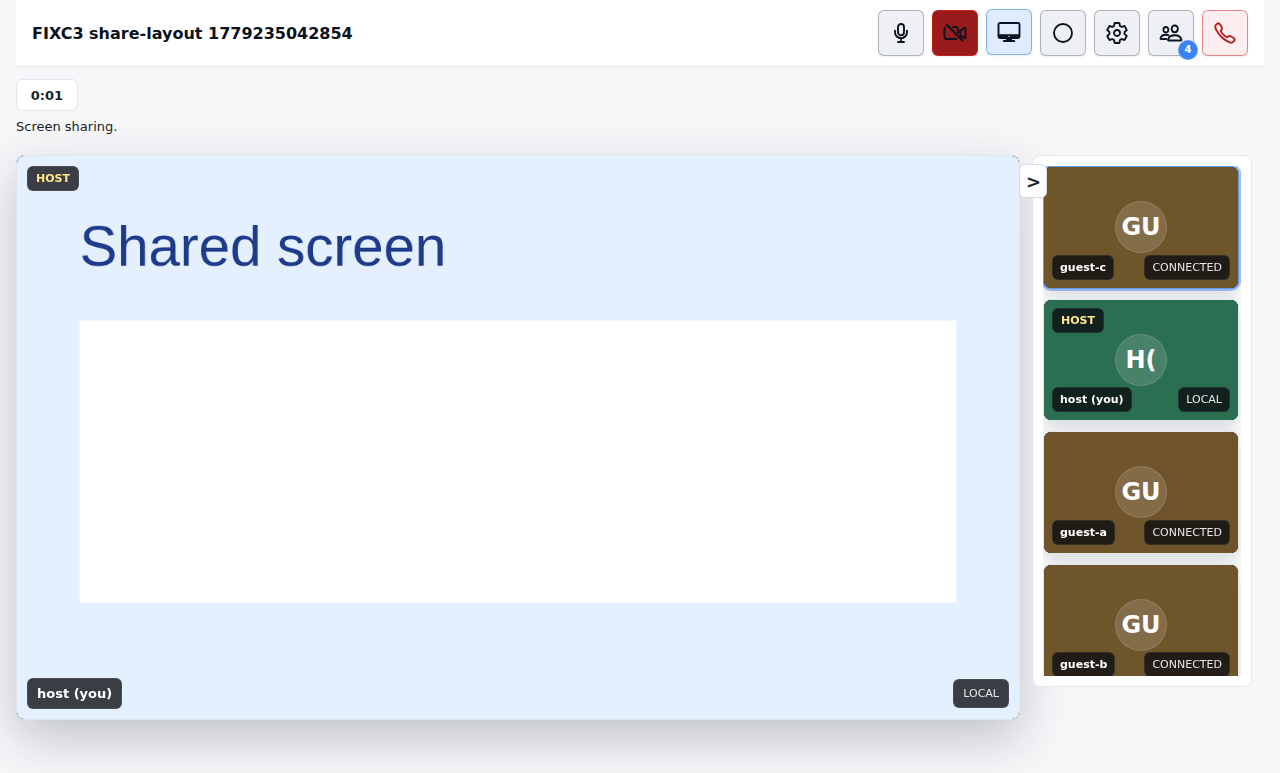
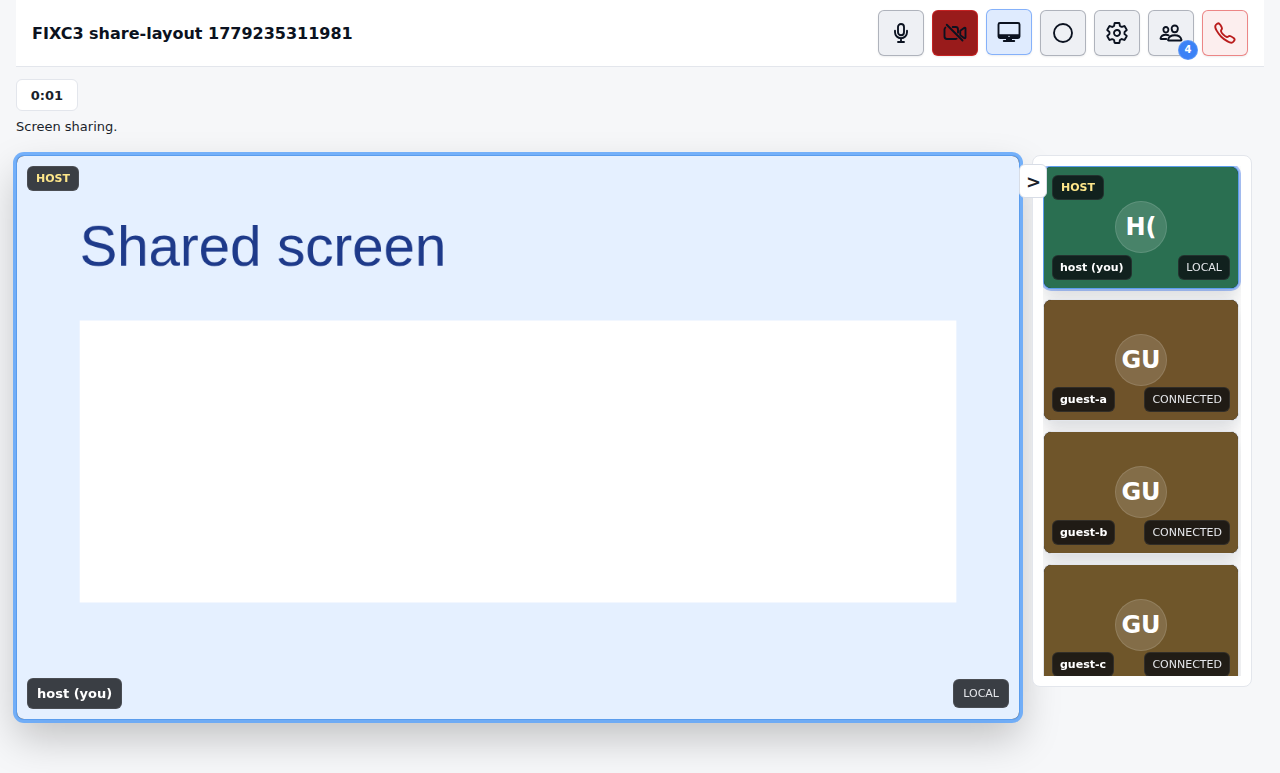
docs(projcore): record FIXC3 verdict + single-sender caveat
- batch-fixc3/independent-validation.md: PASS verdict + flagged the remote-sharer
  single-sender limitation as a known architecture trade-off, not a blocker for R-C-4
- progress.md: FIXC3 entry, R-C-4 VERIFIED, 13-consecutive R8.1 milestone
- queue.md: FIXC3 status -> PASS
- req-matrix.md: R-C-4 -> VERIFIED

diff --git a/plan/WK_0519/meet-fixes/projcore-run-2026-05-19-fixc/req-matrix.md b/plan/WK_0519/meet-fixes/projcore-run-2026-05-19-fixc/req-matrix.md
@@ -7,7 +7,7 @@ Status legend: `OPEN` / `IN_BATCH` / `IMPLEMENTED` / `VERIFIED`
 | R-C-1 | Pre-join device test modal (cam preview + mic VU + speaker test + dropdowns + custom permission overlay) | FIXC2 | **VERIFIED** | batch-fixc2/independent-validation.md — 650ms auto-start nuance flagged |
 | R-C-2 | In-call device dialog from gear icon — hot-swap mid-call | FIXC2 | **VERIFIED** | batch-fixc2/independent-validation.md — FIXC2.4 PASS |
 | R-C-3 | Camera-light fix — `.stop()` every local track on leave | FIXC1 | **VERIFIED** | batch-fixc1/independent-validation.md — backend 59/59, e2e 4/4, R1 49/49 |
-| R-C-4 | Screen-share reflow — right strip, scroll, speaker-float + pulse, collapsible | FIXC3 | OPEN | — |
+| R-C-4 | Screen-share reflow — right strip, scroll, speaker-float + pulse, collapsible | FIXC3 | **VERIFIED** | batch-fixc3/independent-validation.md — single-sender caveat noted |
 | R-C-5 | Transcript download as subtitle-style `.txt` | FIXC4 | OPEN | — |
 | R-C-6 | Transcript delete independent of audio | FIXC4 | OPEN | — |
 | R-C-7 | Past-meetings delete = rooms-bulk-delete (no new UI) | FIXC4 | OPEN | — |

diff --git a/plan/WK_0519/meet-fixes/projcore-run-2026-05-19-fixc/queue.md b/plan/WK_0519/meet-fixes/projcore-run-2026-05-19-fixc/queue.md
@@ -7,7 +7,7 @@ Status legend: `PENDING` / `IN_PROGRESS` / `VALIDATING` / `PASS` / `FAIL` / `BLO
 | 0 | DISCUSSION | (no branch) | PASS | meta — align on plan before any build |
 | 1 | FIXC1 — camera-light fix | `fix/meet-fixc1-camera-light` | **PASS** | R-C-3 |
 | 2 | FIXC2 — device modal + in-call dialog | `fix/meet-fixc2-device-modal` | **PASS** | R-C-1, R-C-2 |
-| 3 | FIXC3 — screen-share reflow | `fix/meet-fixc3-share-reflow` | PENDING | R-C-4 |
+| 3 | FIXC3 — screen-share reflow | `fix/meet-fixc3-share-reflow` | **PASS** | R-C-4 |
 | 4 | FIXC4 — transcript delete + .txt download | `fix/meet-fixc4-transcript-tools` | PENDING | R-C-5, R-C-6, R-C-7 |
 | 5 | FIXC5 — LLM provider abstraction | `fix/meet-fixc5-llm-providers` | PENDING | R-C-8 |
 | 6 | FIXC6 — Ollama benchmark | `fix/meet-fixc6-ollama-benchmark` | PENDING | R-C-10 |

diff --git a/plan/WK_0519/meet-fixes/projcore-run-2026-05-19-fixc/progress.md b/plan/WK_0519/meet-fixes/projcore-run-2026-05-19-fixc/progress.md
@@ -34,3 +34,12 @@
 - R-C-1 → VERIFIED (with 650ms auto-start nuance flagged for JROM hardware smoke)
 - R-C-2 → VERIFIED
 - See `batch-fixc2/independent-validation.md`
+
+### FIXC3 — Screen-share layout reflow — **VERIFIED PASS** (2026-05-19/20, codex wall time 18m 58s)
+
+- Branch: `fix/meet-fixc3-share-reflow`
+- Commits: 2894e40 fix(frontend): reflow screen share layout (21 files, 758+/21-)
+- Backend: **60/60** (+1 new signaling test), FIXC3 e2e: 2/2, Run 1 regression: **55/55** (R8.1 → 13 consecutive)
+- Screenshots: share-strip.png + share-collapsed.png (active-speaker float visible, soft-light conforming)
+- R-C-4 → VERIFIED (single-sender caveat noted: remote camera tile is replaced by screen share when remote peer shares; local sharer unaffected)
+- See `batch-fixc3/independent-validation.md`
